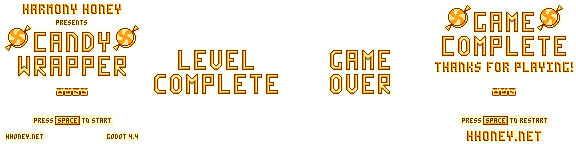
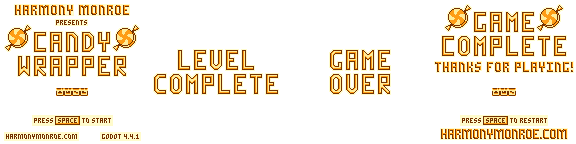
change credits and upgrade to godot 4.4.1

Changed region(s): [[0.0, 0.0, 0.25, 0.1111], [0.75, 0.8889, 1.0, 1.0], [0.0312, 0.9167, 0.25, 1.0]]

diff --git a/readme.md b/readme.md
@@ -2,9 +2,9 @@
 
 Candy Wrapper is a Looping Platformer Arcade Game!
 
-Built with [Godot Engine 4.4](https://godotengine.org)
+Built with [Godot Engine 4.4.1](https://godotengine.org)
 
-Full Game at: [https://hhoneysoftware.itch.io/candy](https://hhoneysoftware.itch.io/candy)
+Full Game at: [https://harmonymonroe.itch.io/candy](https://harmonymonroe.itch.io/candy)
 
 ## License
 The Unlicense, see [LICENSE](LICENSE) for more information.
